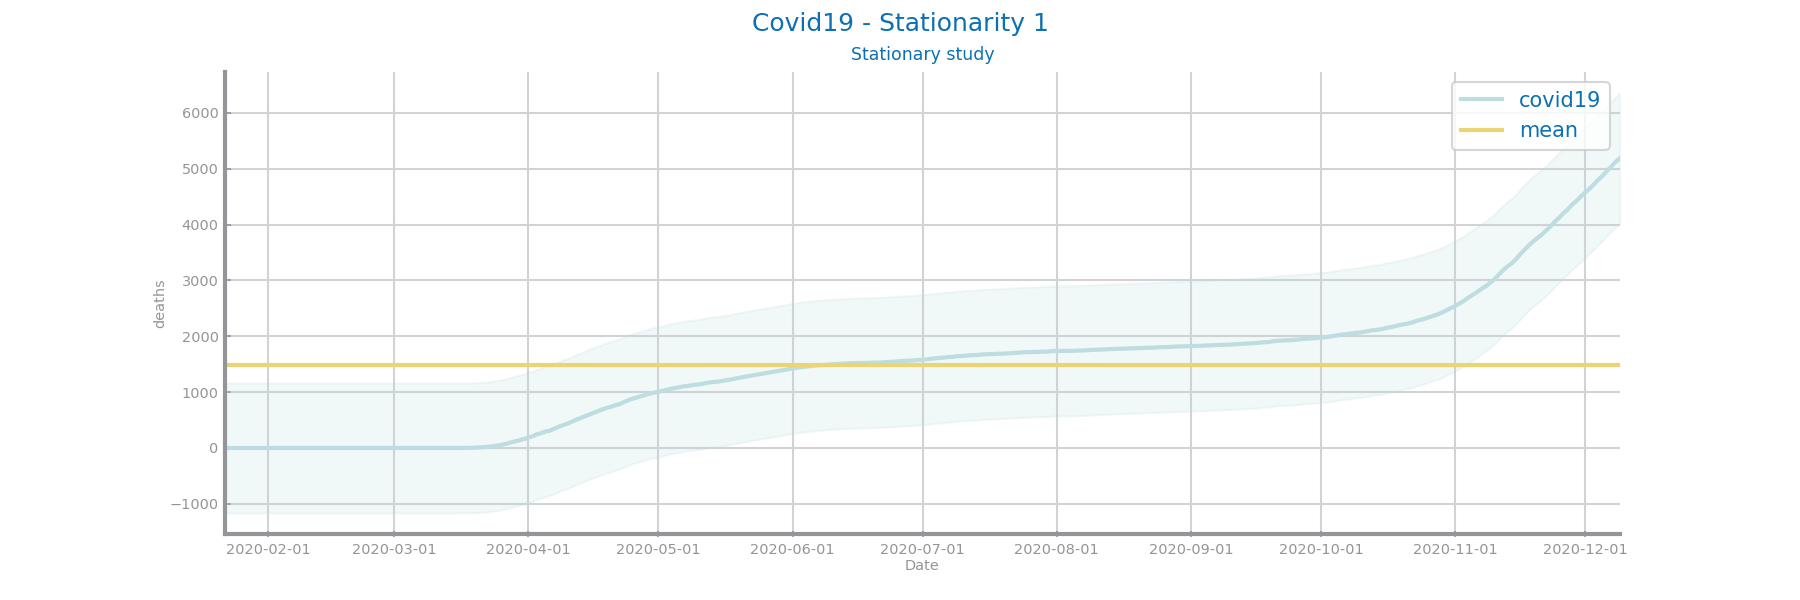
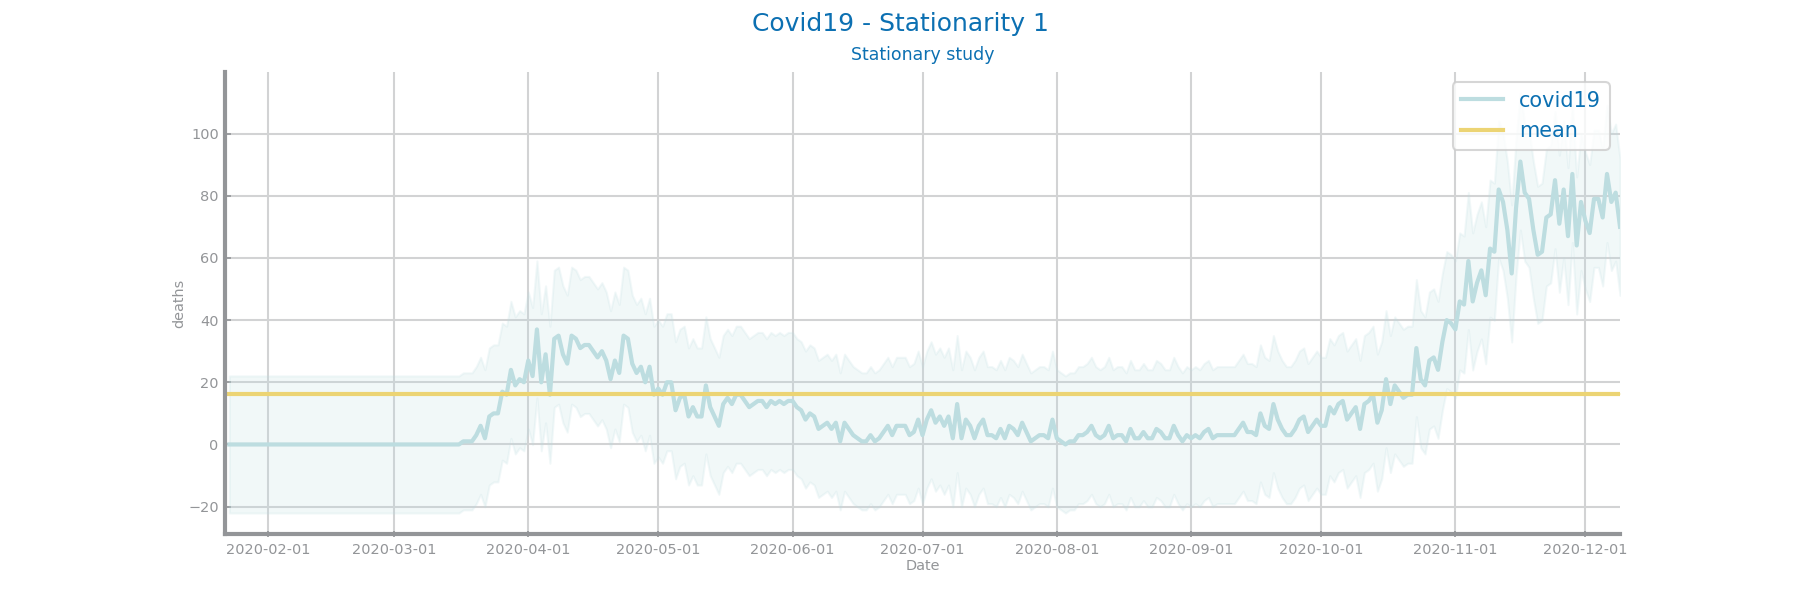
diff

diff --git a/Last_Labs/covid19_profiling.py b/Last_Labs/covid19_profiling.py
@@ -6,7 +6,8 @@ import numpy as np
 
 data = pd.read_csv('../Dataset/covid19_pt.csv', index_col='Date', sep=',', decimal='.',
                    parse_dates=True, infer_datetime_format=True)
-data = data.sort_values(by='Date') 
+data = data.diff()
+data = data.sort_values(by='Date')
 
 graphsDir = './Results/Profiling/Dimensionality/'
 if not os.path.exists(graphsDir):

diff --git a/Last_Labs/covid19_forecasting.py b/Last_Labs/covid19_forecasting.py
@@ -10,6 +10,7 @@ from statsmodels.tsa.statespace.sarimax import SARIMAX
 
 data = pd.read_csv('../Dataset/covid19_pt.csv', index_col='Date', sep=',', decimal='.',
                    parse_dates=True, infer_datetime_format=True)
+data = data.diff()
 data = data.sort_values(by='Date')
 data = data.asfreq('D')
 

diff --git a/Last_Labs/covid19_transformation.py b/Last_Labs/covid19_transformation.py
@@ -5,6 +5,7 @@ import ts_functions as ts
 
 data = pd.read_csv('../Dataset/covid19_pt.csv', index_col='Date', sep=',', decimal='.',
                    parse_dates=True, infer_datetime_format=True)
+data = data.diff()
 data = data.sort_values(by='Date') 
 
 graphsDir = './Results/Transformation/Smoothing/'

diff --git a/Last_Labs/covid19_motif_discovery.py b/Last_Labs/covid19_motif_discovery.py
@@ -6,6 +6,7 @@ import ts_functions as ts
 import matrixprofile as mp
 
 data = pd.read_csv('../Dataset/covid19_pt.csv')
+data = data.diff()
 
 graphsDir = './Results/Motif Discovery/Original/'
 if not os.path.exists(graphsDir):
